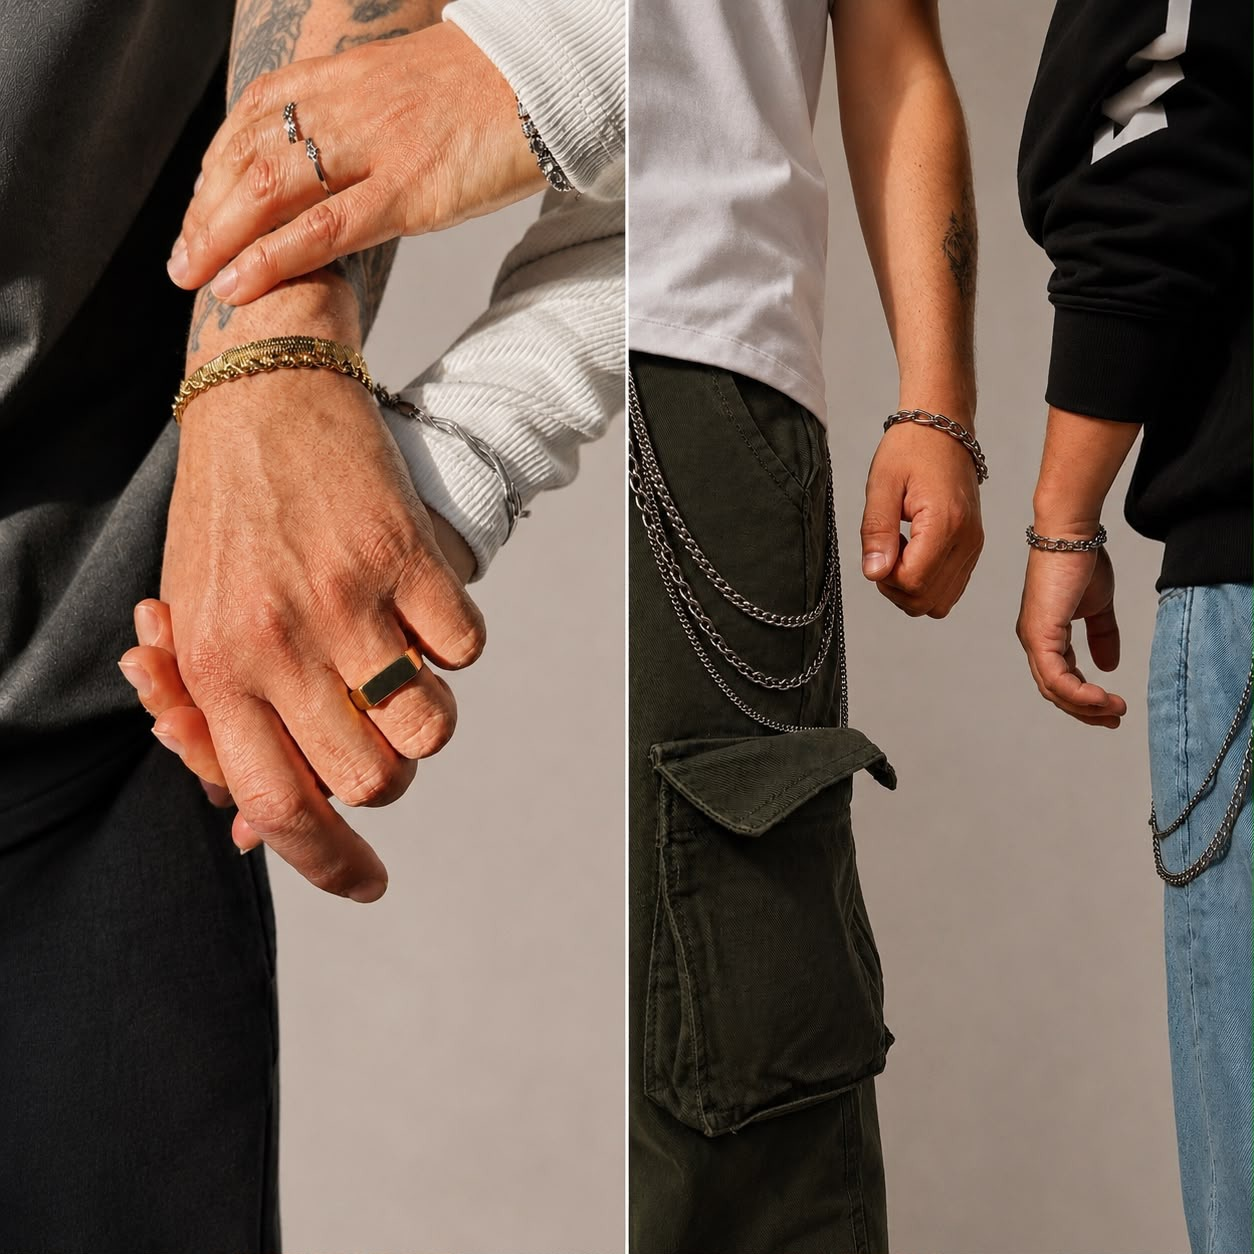
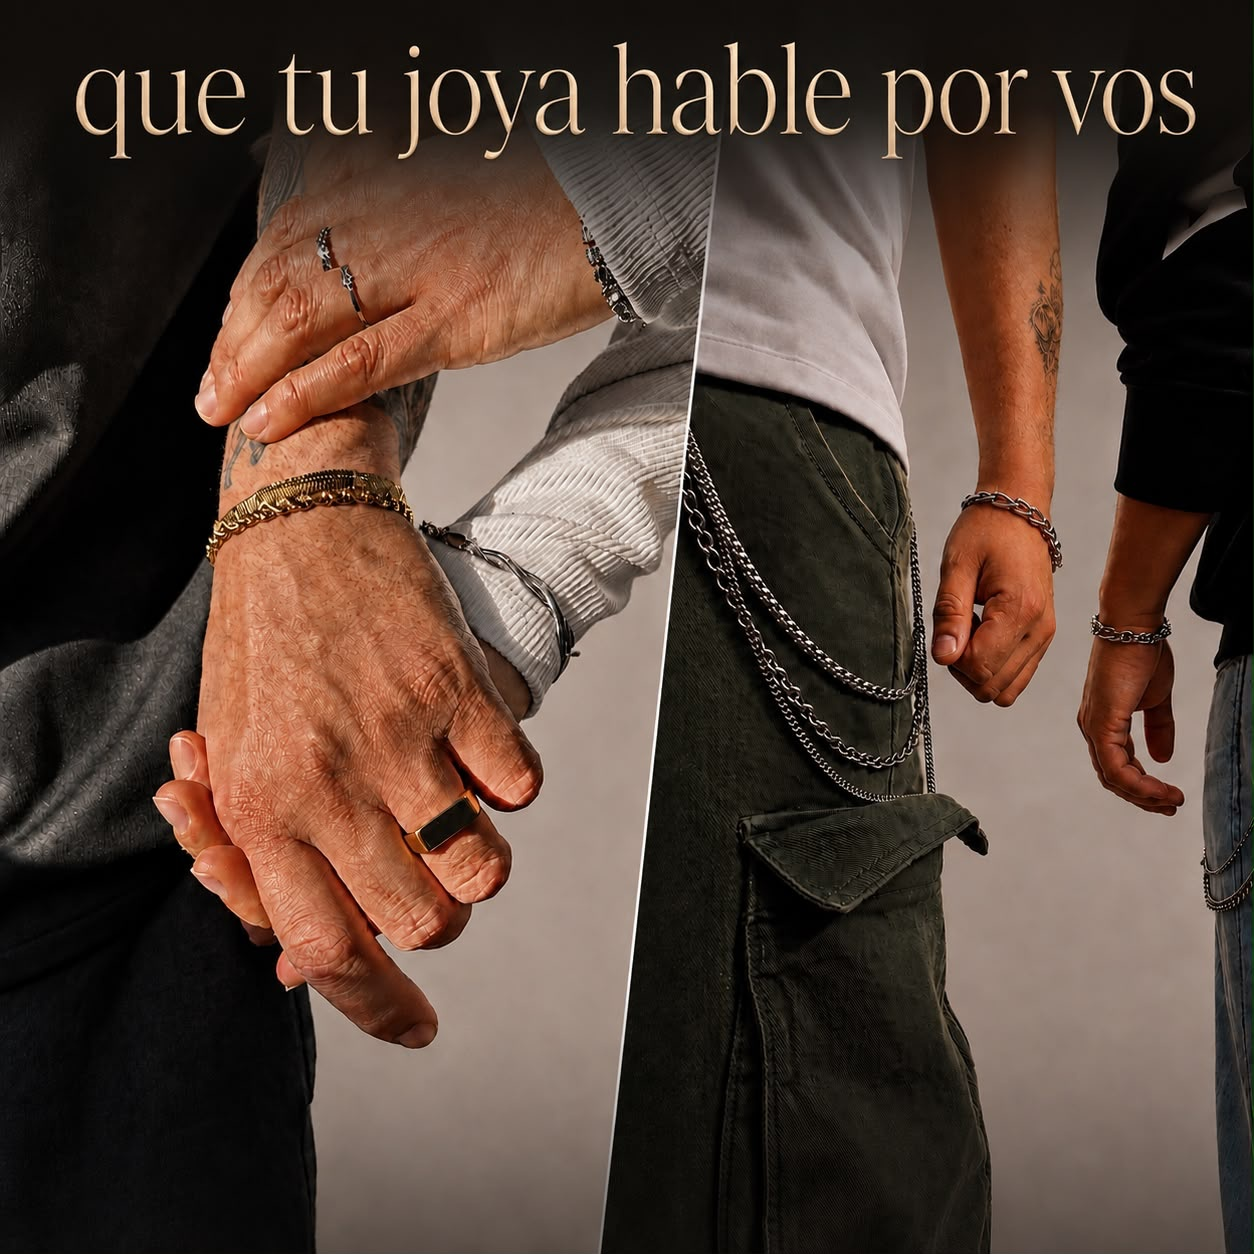
Update hero background with new slogan graphic, reorder Pulsera Royal to the top with its solo-bracelet photo first, rename testimonios title, and improve the product modal close button's visibility.

diff --git a/assets/js/products.js b/assets/js/products.js
@@ -563,6 +563,20 @@ const PRODUCTOS = {
       ],
     },
     {
+      nombre: "Pulsera Royal",
+      precio: 18000,
+      desc: "Pulsera tennis con circonias engarzadas y una piedra ovalada central de mayor tamaño. Acero dorado.",
+      img: "assets/images/pulsera-royal.jpg",
+      img2: "assets/images/pulsera-royal-modelo.jpg",
+      etiqueta: "Nuevo",
+      color: "gold",
+      detalles: [
+        "Material: acero dorado",
+        "Diseño: tennis con piedra ovalada central",
+        "Medidas: 17 cm + 4 cm de extensión",
+      ],
+    },
+    {
       nombre: "Pulsera Cuba Silver",
       precio: 12000,
       desc: "Pulsera cadena cubana (curb chain) color plateado. Acero quirúrgico.",
@@ -679,20 +693,6 @@ const PRODUCTOS = {
         "Material: acero quirúrgico",
         "Diseño: eslabones tipo trébol en la cadena",
         "Cierre: mosquetón con cadena extensora",
-      ],
-    },
-    {
-      nombre: "Pulsera Royal",
-      precio: 18000,
-      desc: "Pulsera tennis con circonias engarzadas y una piedra ovalada central de mayor tamaño. Acero dorado.",
-      img: "assets/images/pulsera-royal-modelo.jpg",
-      img2: "assets/images/pulsera-royal.jpg",
-      etiqueta: "Nuevo",
-      color: "gold",
-      detalles: [
-        "Material: acero dorado",
-        "Diseño: tennis con piedra ovalada central",
-        "Medidas: 17 cm + 4 cm de extensión",
       ],
     },
   ],

diff --git a/assets/css/styles.css b/assets/css/styles.css
@@ -407,7 +407,8 @@ p {
 ------------------------------------------------------------ */
 .hero {
   position: relative;
-  min-height: 460px;
+  aspect-ratio: 1 / 1;
+  max-height: 640px;
   display: flex;
   align-items: center;
   justify-content: center;
@@ -423,7 +424,7 @@ p {
   width: 100%;
   height: 100%;
   object-fit: cover;
-  object-position: center 35%;
+  object-position: center top;
   z-index: 0;
 }
 .hero-bg-scrim {
@@ -1000,16 +1001,22 @@ p {
 }
 .modal-close {
   position: absolute;
-  top: 0.7rem;
+  top: 1rem;
   right: 0.7rem;
   z-index: 2;
   width: 44px;
   height: 44px;
   border-radius: 50%;
-  background: rgba(11, 10, 8, 0.8);
+  background: rgba(11, 10, 8, 0.92);
+  border: 1.5px solid rgba(255, 255, 255, 0.55);
+  box-shadow: 0 2px 8px rgba(0, 0, 0, 0.35);
   display: flex;
   align-items: center;
   justify-content: center;
+  font-size: 1.2rem;
+  font-weight: 700;
+  color: var(--on-dark-ink);
+  line-height: 1;
 }
 .modal-photo {
   width: 100%;
@@ -1386,6 +1393,11 @@ p {
    Escritorio / tablet — mejoras progresivas, no requisito
 ------------------------------------------------------------ */
 @media (min-width: 640px) {
+  .hero {
+    aspect-ratio: auto;
+    min-height: 460px;
+    max-height: none;
+  }
   .grid {
     grid-template-columns: repeat(3, 1fr);
   }

diff --git a/index.html b/index.html
@@ -68,7 +68,7 @@
 <link rel="icon" type="image/jpeg" href="assets/images/logo-roar.jpg" />
 <link rel="apple-touch-icon" href="assets/images/logo-roar.jpg" />
 <link rel="manifest" href="manifest.json" />
-<link rel="stylesheet" href="assets/css/styles.css?v=20" />
+<link rel="stylesheet" href="assets/css/styles.css?v=21" />
 </head>
 <body>
 
@@ -141,8 +141,8 @@
 <!-- Modal de producto: lo arma site.js -->
 <div id="product-modal" class="product-modal" hidden></div>
 
-<script src="assets/js/products.js?v=66"></script>
+<script src="assets/js/products.js?v=67"></script>
 <script src="assets/js/shipping.js?v=5"></script>
-<script src="assets/js/site.js?v=30"></script>
+<script src="assets/js/site.js?v=31"></script>
 </body>
 </html>

diff --git a/assets/js/site.js b/assets/js/site.js
@@ -415,7 +415,6 @@
 
     hero.appendChild(
       el('div', { class: 'hero-inner' },
-        el('p', { class: 'hero-tagline', text: 'Que tu joya hable por vos' }),
         el('ul', { class: 'hero-facts' },
           facts.map(function (f) { return el('li', { text: f }); })
         )
@@ -1137,7 +1136,7 @@
     section.hidden = false;
     section.appendChild(
       el('div', { class: 'section-inner' },
-        el('h2', { class: 'section-title', text: 'Clientes con su ROAR' }),
+        el('h2', { class: 'section-title', text: 'Clientes que eligieron a ROAR' }),
         el('div', { class: 'testimonios-grid' },
           TESTIMONIOS.map(function (t) {
             return el('figure', { class: 'testimonio-card' },
